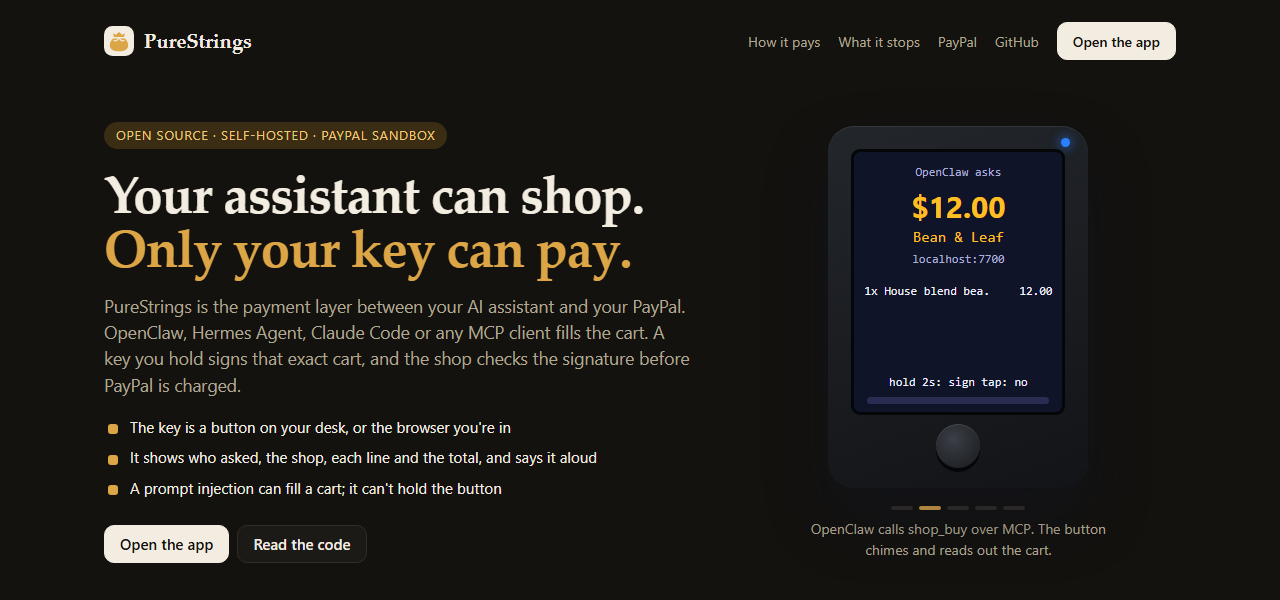
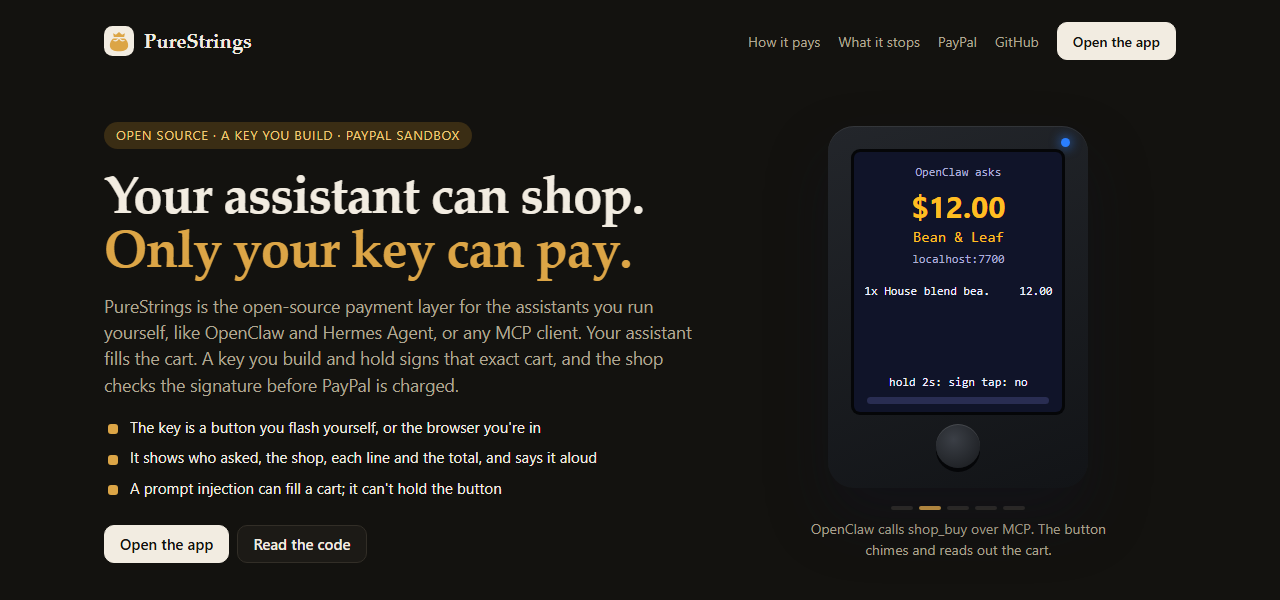
docs(readme): the open payment layer for assistants you run yourself, with a key you build

Changed region(s): [[0.0625, 0.48, 0.5312, 0.66], [0.1562, 0.18, 0.375, 0.27], [0.1875, 0.69, 0.4375, 0.72]]

diff --git a/README.md b/README.md
@@ -1,6 +1,7 @@
 # PureStrings
 
-**An open-source PayPal payment layer for personal AI assistants. Any assistant can shop; only your own key can pay.**
+**An open-source PayPal payment layer for the AI assistants you run yourself, with a key you build. Any assistant
+can shop; only your own key can pay.**
 
 ![PureStrings: your assistant can shop, only your key can pay](docs/images/landing.png)
 
@@ -13,6 +14,13 @@ charges PayPal.
 I built it because assistants are getting good at shopping, and giving one your card means anything it reads can
 spend your money. With PureStrings, a page that talks your assistant into buying a $200 gift card gets a cart on
 your key's screen, and a tap that says no.
+
+Open-source assistants like OpenClaw and Hermes Agent run on your own machine, and you can change anything about
+them. A hosted assistant can lean on its platform to pay; one you run yourself has had nothing safer than your
+card number. PureStrings is that missing piece, and it's open the same way:
+- you run PureStrings yourself;
+- you flash the button's firmware onto an off-the-shelf board;
+- the key protocol is written down, so you can build a key of your own.
 
 Live: [purestrings.onrender.com](https://purestrings.onrender.com) (the PayPal sandbox; the app asks for its
 token).
@@ -72,10 +80,10 @@ Optional settings:
 
 To host it, [`render.yaml`](render.yaml) deploys it on Render with a disk.
 
-## The button
+## The button: a key you build
 
-The PureStrings button is an ESP32-S3 board with a 1.8" screen, a speaker and one button. It makes its key in its
-own chip.
+The PureStrings button is an off-the-shelf ESP32-S3 board with a 1.8" screen, a speaker and one button, running
+open firmware you flash yourself. It makes its key in its own chip.
 - **Plugging in:** plug it into the computer PureStrings runs on, and PureStrings links it by itself. No Wi-Fi, no
   app, no driver.
 - **What it does:** it chimes, shows the cart and says it out loud. While you hold, a bar fills and ticks, and a
